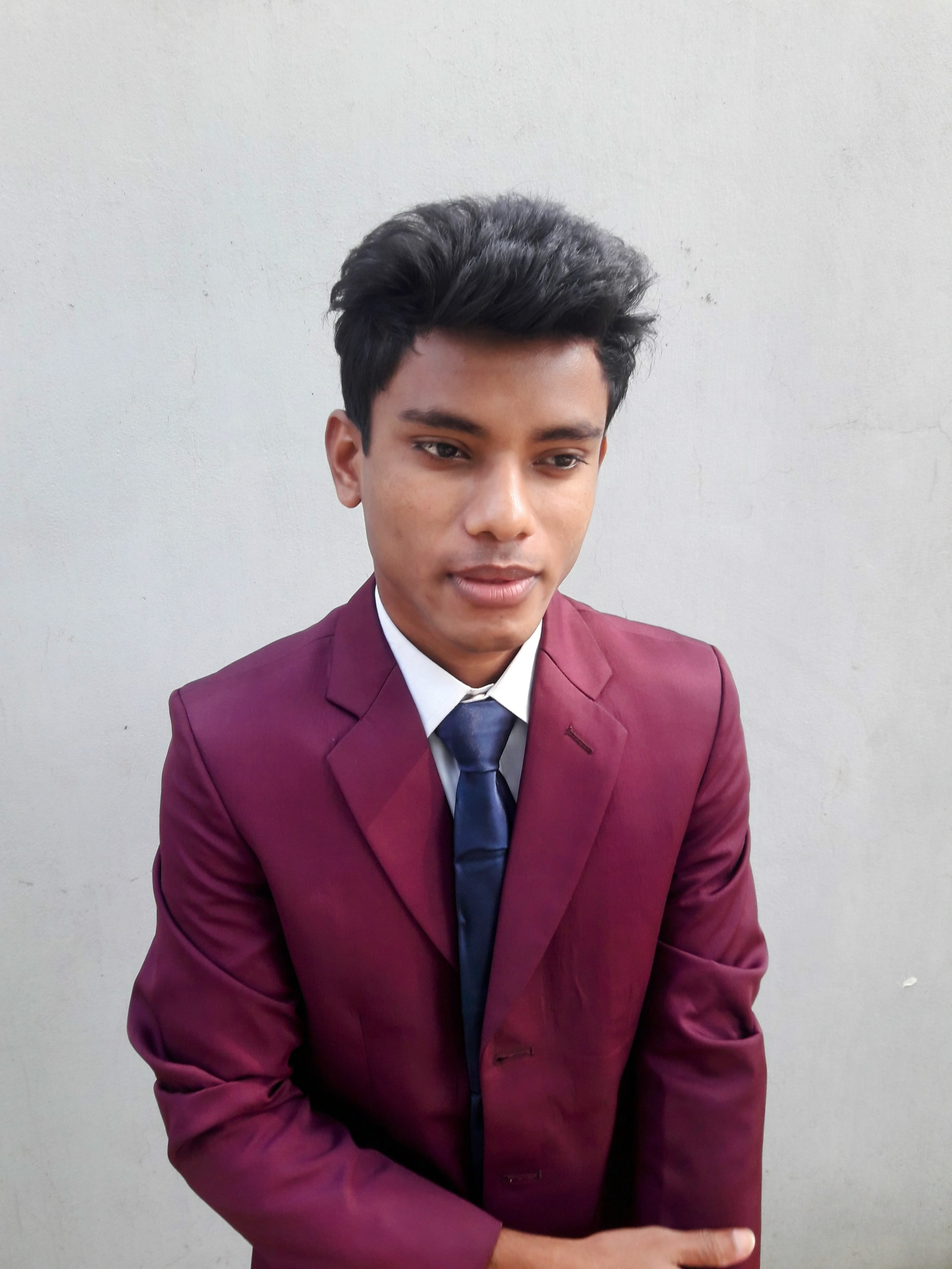
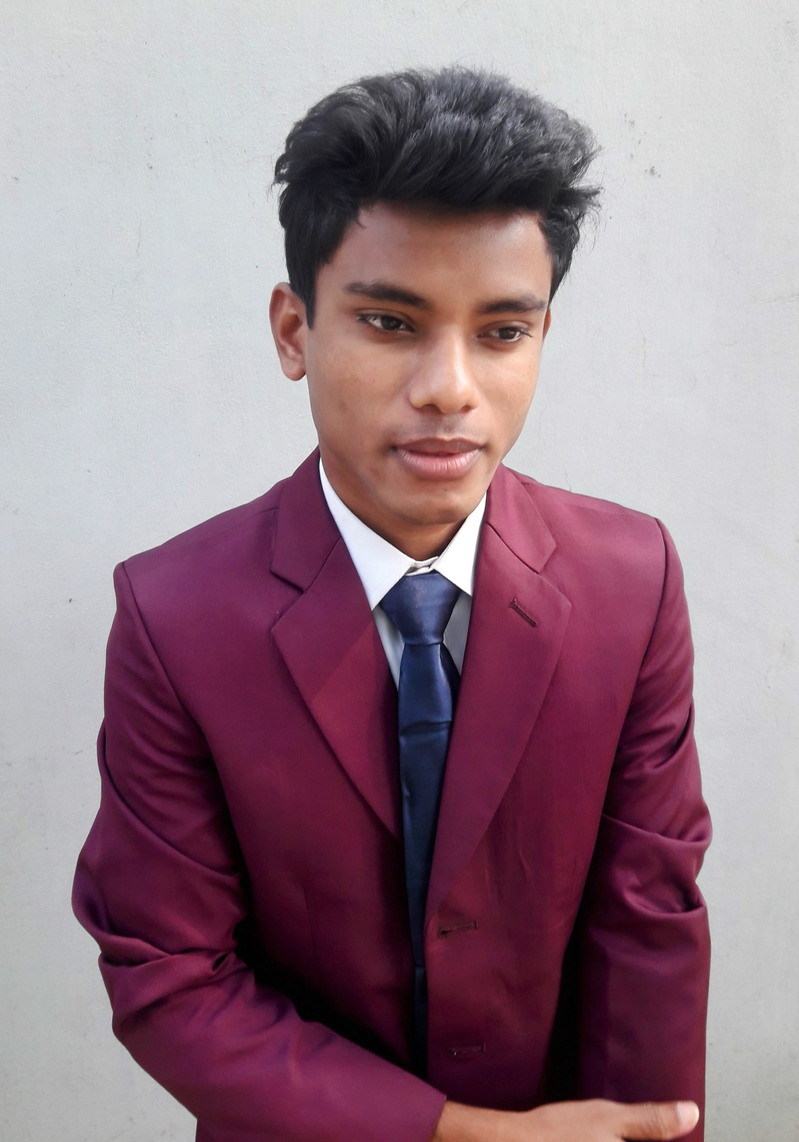
Custom font

diff --git a/style.css b/style.css
@@ -1,8 +1,9 @@
 @import url("https://fonts.googleapis.com/css2?family=Montserrat:ital,wght@0,100..900;1,100..900&display=swap");
+@import url("https://fonts.googleapis.com/css2?family=Raleway:wght@100..900&display=swap");
 :root {
   --primary-color: #00bf63;
   --border-color: #ddd;
-  --primary-font: "Montserrat", sans-serif;
+  --primary-font: "Raleway", sans-serif;
 }
 
 * {
@@ -338,10 +339,11 @@ nav i {
     padding: 50px 0;
   }
   .banner h1 {
-    font-size: 30px;
+    font-size: 35px;
     margin-bottom: 20px;
   }
   .banner p {
+    font-size: 16px;
     margin-bottom: 20px;
   }
   .banner a {

diff --git a/index.html b/index.html
@@ -100,7 +100,7 @@
           <div class="title"><h2>About Me</h2></div>
           <div class="flex">
             <div class="inner-flex">
-              <img src="./images/about-image-03.jpg" alt="about image" />
+              <img src="./images/about-image-02.jpg" alt="about image" />
             </div>
             <div>
               <p>
